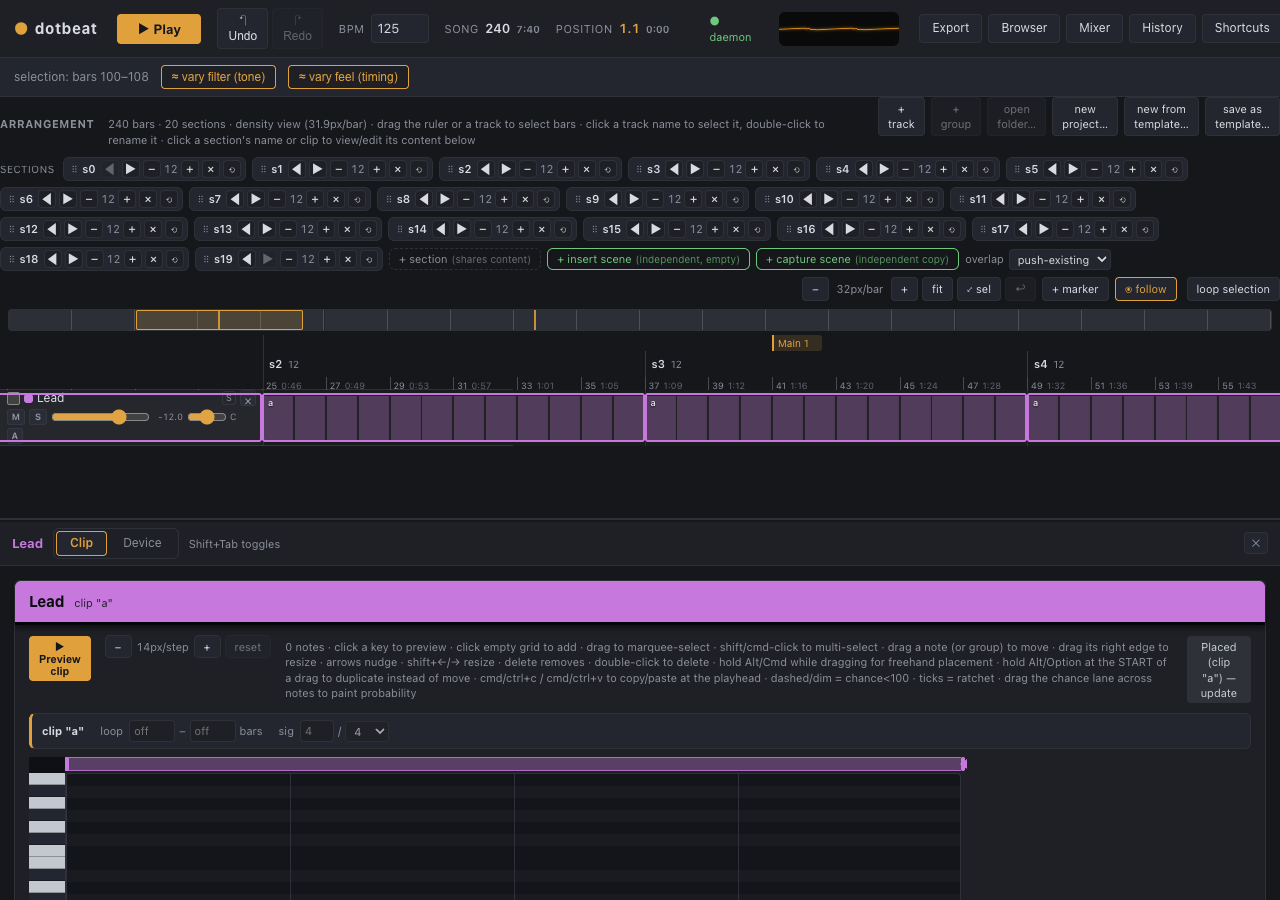
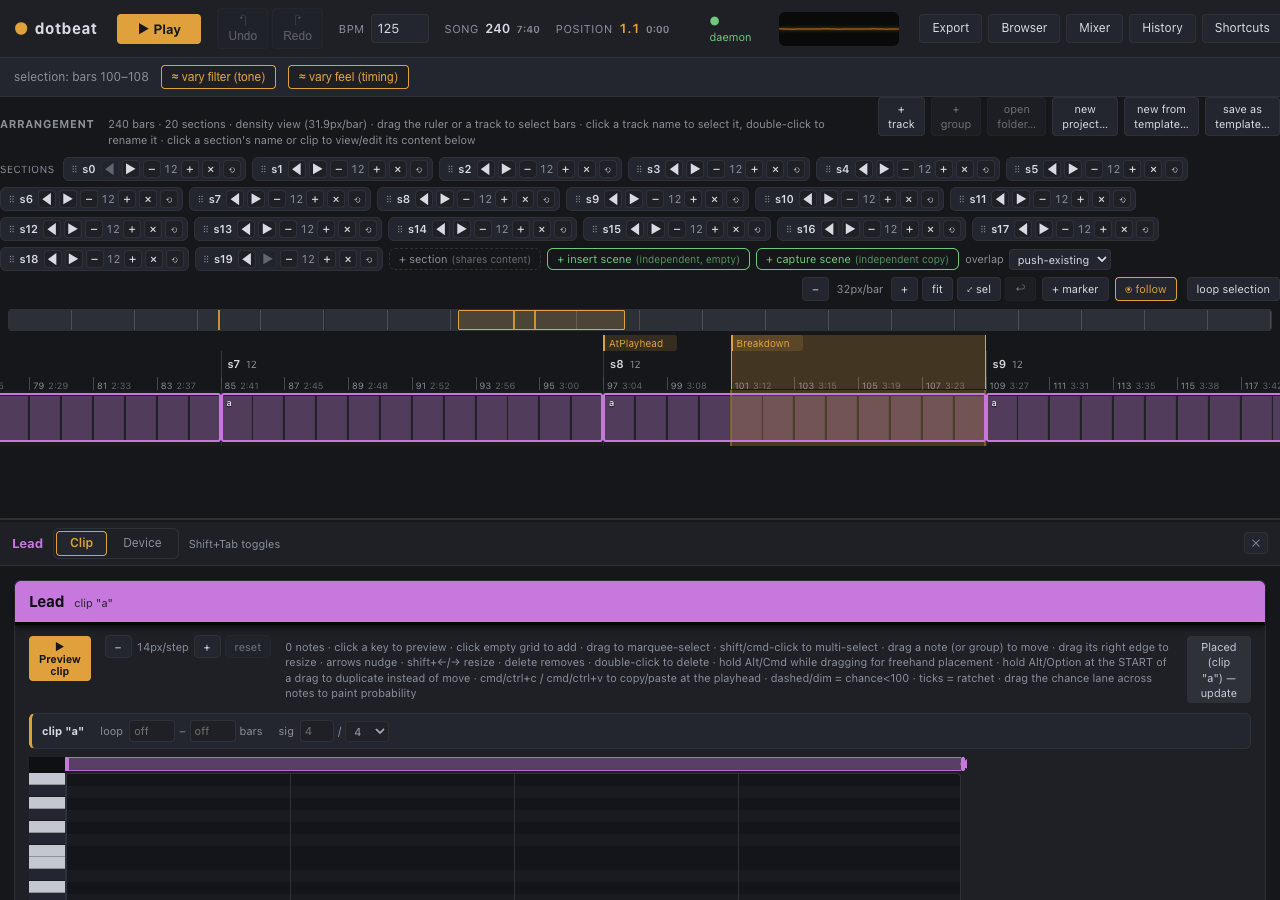
Fix three things the usability pilot and the existing suite caught
Pilot (docs/usability-testing.md, real app on a 240-bar arrangement):

- M marked the SELECTION START, not the playhead, contradicting both its
  tooltip and the Shortcuts panel. The remembered playhead was checked
  last, after the selection, so the most natural workflow there is —
  drag-select the breakdown, click the ruler inside it to listen, stop,
  press M — silently marked bar 89 instead of 97. The playhead now wins,
  including the remembered one; the selection is only a fallback for a
  session where the playhead has never been anywhere. Every assertion in
  the verify suite happened to press M with no selection active, which is
  exactly why only a pilot found this.

- Two markers close together drew their names on top of each other; the
  pilot photographed "Breakdown" and "Main 2" rendering as the literal
  string "BMaiakd2own". At 5.6px/bar any two markers within ~8 bars
  collide, which for an 8-section track is the normal case. A flag whose
  neighbour is nearer than a label's width now collapses to its pin —
  still visible, clickable, and named in its tooltip.

Existing suite (verify-phase24-stream-cd, doing precisely its job):

- The new ruler wall-clock labels made the LAST bar tick's content run
  ~6px past the ruler's right edge, so fit-to-width became horizontally
  scrollable. A tick is positioned at its bar with auto width, so its
  label grows rightward with nothing to stop it. Clipped at the tick
[…]

diff --git a/ui/src/components/ArrangementView.tsx b/ui/src/components/ArrangementView.tsx
@@ -149,6 +149,9 @@ const TICK_ROW_H = 13 // Phase 24 Stream CD: bar-number tick strip along the bot
 // clock plus the 4px gap needs ~52px, and 64 (the first guess) suppressed the labels entirely at
 // the very zoom the verify script exercises (2-bar tick interval * 31.9px/bar = 63.8px).
 const TICK_CLOCK_MIN_PX = 56
+// Below this many px to the NEXT marker, a locator flag drops its label and shows only its pin —
+// see the `compact` computation in the locator strip for why (overlapping names render as mush).
+const LOCATOR_LABEL_MIN_PX = 48
 const LOCATOR_ROW_H = 16
 const SECTION_LABEL_H = 26
 const RULER_H = LOCATOR_ROW_H + SECTION_LABEL_H + TICK_ROW_H
@@ -2459,11 +2462,18 @@ export function ArrangementView() {
   // as you pressed stop. Caught by verification, not by reading the code: pressing "," after
   // stopping at bar 101 reported "already at the first marker" and went nowhere, because `here`
   // had quietly become 1. Stopping does not move you, so the reference point must survive it.
-  const lastPlayheadBarRef = useRef(1)
+  // `null` until the playhead has EVER had a real position, which is what lets "drop a marker at
+  // the playhead" tell "stopped at bar 97" apart from "never played" — the two are indistinguishable
+  // from `currentStep` alone (both -1), and conflating them is what made M silently mark the wrong
+  // bar (see newLocatorBar below).
+  const lastPlayheadBarRef = useRef<number | null>(null)
   useEffect(() => {
     if (currentStep >= 0) lastPlayheadBarRef.current = Math.floor(currentStep / 16) + 1
   }, [currentStep])
-  const playheadBar = useCallback(() => (currentStep >= 0 ? Math.floor(currentStep / 16) + 1 : lastPlayheadBarRef.current), [currentStep])
+  const playheadBar = useCallback(
+    () => (currentStep >= 0 ? Math.floor(currentStep / 16) + 1 : lastPlayheadBarRef.current),
+    [currentStep],
+  )
 
   // Scroll a bar into view without touching the transport — the shared half of "jump to marker" and
   // the zoom-to-selection framing below. Centres the target when it isn't already comfortably on
@@ -2496,11 +2506,23 @@ export function ArrangementView() {
   // Where a new marker lands: the playhead if the transport has a position, else the start of the
   // current bar selection, else bar 1. All three are "the place the user is currently looking at",
   // in decreasing order of how explicitly they said so.
+  // Where a new marker lands. THE PLAYHEAD WINS, including the remembered one from before a stop —
+  // that is what the button's tooltip and the Shortcuts panel both promise, and the first cut of
+  // this got the precedence backwards: the remembered playhead was checked LAST, after the
+  // selection, so the overwhelmingly natural workflow (drag-select the breakdown, click the ruler
+  // inside it to listen, stop, press M) silently marked the SELECTION START instead of bar 97.
+  // Caught by the usability pilot, which is the only thing that would have caught it — every
+  // assertion in the verify suite happened to press M with no selection active.
+  //
+  // The bar-range selection is only a fallback for the genuinely ambiguous case: a session where
+  // the playhead has never been anywhere, so "at the playhead" means nothing yet and the selection
+  // is the only place the user has actually pointed at.
   const newLocatorBar = useCallback((): number => {
-    if (currentStep >= 0) return Math.floor(currentStep / 16) + 1
+    const atPlayhead = playheadBar()
+    if (atPlayhead !== null) return atPlayhead
     if (selection.bars) return selection.bars.start + 1
-    return playheadBar() // where the playhead last was, which survives a stop (see lastPlayheadBarRef)
-  }, [currentStep, selection.bars, playheadBar])
+    return 1
+  }, [selection.bars, playheadBar])
 
   const addLocator = useCallback(() => {
     const bar = Math.min(Math.max(1, newLocatorBar()), Math.max(1, totalBars))
@@ -2541,7 +2563,9 @@ export function ArrangementView() {
         showToast('No markers yet — press M (or "+ marker") to drop one at the playhead.')
         return
       }
-      const here = playheadBar()
+      // Same "remembered position survives a stop" rule as newLocatorBar above; before a first
+      // playback there is nowhere to be relative to, so start from bar 1.
+      const here = playheadBar() ?? 1
       const target = dir === 1 ? locators.find((l) => l.bar > here) : [...locators].reverse().find((l) => l.bar < here)
       if (!target) {
         showToast(dir === 1 ? 'Already at the last marker.' : 'Already at the first marker.')
@@ -3698,13 +3722,23 @@ export function ArrangementView() {
                 probes the verify scripts read. onPointerDown stops propagation so grabbing a flag
                 never also starts the ruler's own drag-to-select-bars gesture underneath it. */}
             <div className="arr-locator-strip" style={{ height: LOCATOR_ROW_H }}>
-              {locators.map((l) => {
+              {locators.map((l, i) => {
                 const label = l.name.replace(/_/g, ' ')
                 const renaming = locatorRename?.id === l.id
+                // Level-of-detail, the same instinct tickIntervalFor applies to bar numbers. Two
+                // markers closer together than a label's width used to draw their names ON TOP of
+                // each other — the usability pilot photographed "Breakdown" and "Main 2" rendering
+                // as the literal string "BMaiakd2own". At the default 5.6px/bar on a 242-bar song
+                // any two markers within ~8 bars collide, which for an 8-section track is the
+                // normal case, not an edge one. So when the next marker is too close, this one
+                // collapses to just its pin: still visible, still clickable, still jumps, and its
+                // name is still in the tooltip — but it never becomes illegible mush.
+                const nextGapPx = i + 1 < locators.length ? (locators[i + 1]!.bar - l.bar) * renderPxPerBar : Infinity
+                const compact = !renaming && nextGapPx < LOCATOR_LABEL_MIN_PX
                 return (
                   <div
                     key={l.id}
-                    className={`arr-locator${renaming ? ' renaming' : ''}`}
+                    className={`arr-locator${renaming ? ' renaming' : ''}${compact ? ' compact' : ''}`}
                     data-locator={l.id}
                     data-locator-bar={l.bar}
                     data-locator-name={l.name}
@@ -3735,7 +3769,7 @@ export function ArrangementView() {
                           onClick={() => jumpToLocator(l.bar)}
                           onDoubleClick={() => setLocatorRename({ id: l.id, draft: label })}
                         >
-                          {label}
+                          {compact ? '' : label}
                         </button>
                         <button
                           className="arr-locator-del"

diff --git a/ui/src/styles.css b/ui/src/styles.css
@@ -2139,6 +2139,14 @@ body {
   left: 0;
   right: 0;
   pointer-events: none;
+  /* Phase 41 Stream D: a tick is absolutely positioned at its bar with AUTO width, so its label
+     grows rightward from that point. Adding the wall-clock label (`.arr-bar-tick-time`) made the
+     LAST tick's content extend ~6px past the ruler's right edge, which made .arr-scroll
+     horizontally scrollable at fit-to-width — caught by verify-phase24-stream-cd's own
+     "fit-to-width must not overflow" assertion, which is exactly what it was written for. Clipping
+     here is the honest fix: the ruler's right edge IS the end of the song, so there is nothing
+     beyond it a label should be claiming space for. */
+  overflow: hidden;
 }
 .arr-bar-tick {
   position: absolute;
@@ -2196,6 +2204,23 @@ body {
   background: rgba(224, 161, 60, 0.16);
   border-radius: 0 var(--radius-sm, 3px) var(--radius-sm, 3px) 0;
   max-width: 180px;
+}
+/* Collapsed to a bare pin because a neighbour is too close to fit both names — the flag stays
+   clickable (a real jump target) and keeps its full name in the tooltip. */
+.arr-locator.compact {
+  max-width: none;
+}
+.arr-locator.compact .arr-locator-flag {
+  padding: 0;
+  width: 4px;
+  min-width: 4px;
+}
+.arr-locator.compact .arr-locator-del {
+  display: none;
+}
+.arr-locator.compact:hover {
+  /* Hovering a collapsed pin is how you find out which marker it is, so give it a little presence. */
+  background: rgba(224, 161, 60, 0.4);
 }
 .arr-locator-flag {
   font: inherit;
